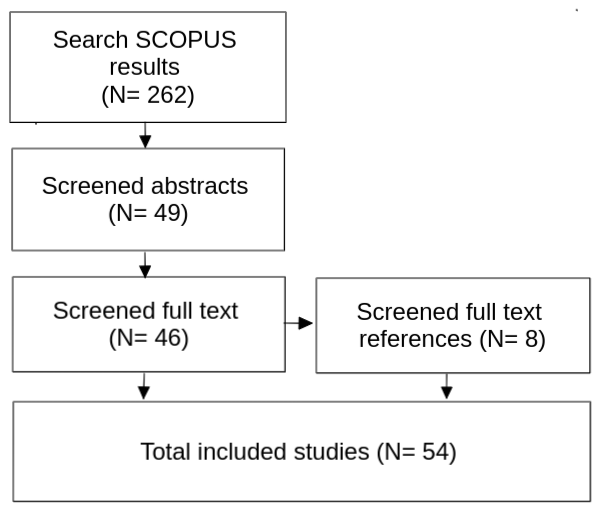
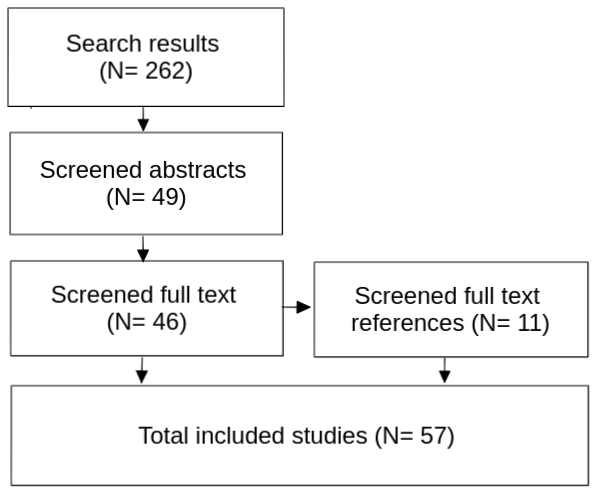
update

Changed region(s): [[0.0, 0.0, 0.9933, 0.998], [0.2408, 0.8468, 0.7826, 0.9073]]

diff --git a/README.md b/README.md
@@ -113,7 +113,7 @@ passing but not as the topic of the paper).
 
 In the second stage, we checked the references from the studies selected
 (i.e. snowball technique), and after screening abstracts and full texts,
-8 additional papers were selected. In total, 54 were reviewed. A flow
+11 additional papers were selected. In total, 57 were reviewed. A flow
 chart of included studies is shown in Figure 1.
 
 <img src="flow-chart.png" alt="Figure 1: flow chart" width="50%" style="display: block; margin: auto;" />
@@ -141,7 +141,7 @@ safety, and public health.
 
 <!-- (i.e. optimal use of lighting to enhance cyclists reassurance while respecting the environment) -->
 
-<Study type>Most of the studies were written in the last decade, 46 were
+<Study type>Most of the studies were written in the last decade, 49 were
 empirical and 8 were reviews (Figure 1).
 
 ![Figure 2: number of papers reviewed by type and
@@ -245,6 +245,12 @@ urban bicycling facilities, Poorfakhraei and Rowangould (2015) found
 that “cycle tracks were valued the most, followed by street lighting,
 and bicycle lanes”.
 
+“Winters et al. (2011) found that a major deterrent to cycling was if
+the route was not well lit after-dark. The deterrent effect was largest
+for people who don’t currently cycle but potentially would do in the
+future, highlighting the importance of lighting in encouraging uptake of
+cycling” (Uttley, Fotios, and Lovelace 2020).
+
 Respondents in a study that examined if neighbourhood environments were
 associated with walking and cycling, reported that good lighting at
 night is an important facilitator of cycling (Lee and Moudon 2008).
@@ -332,6 +338,13 @@ reduction in the odds of severe injury” (Romanow et al. 2012).
 
 “Street lighting is an additional factor that appear to improve cycling
 safety” (Reynolds et al. 2009).
+
+“The most important variables influencing non-motorist injury severity
+are the age of the individual (the elderly are more injury-prone), the
+speed limit on the roadway (higher speed limits lead to higher injury
+severity levels), location of crashes (those at signalized intersections
+are less severe than those elsewhere), and time-of-day” (Eluru, Bhat,
+and Hensher 2008).
 
 “Darkness without streetlights increases the probability of fatal injury
 by 110.9% in accidents compared to accidents occurring in daylight or
@@ -584,6 +597,16 @@ Chen, Peng, Qing Shen, and Suzanne Childress. 2018. “A GPS Data-Based
 Analysis of Built Environment Influences on Bicyclist Route
 Preferences.” *International Journal of Sustainable Transportation* 12
 (3): 218–31. <https://doi.org/10.1080/15568318.2017.1349222>.
+
+</div>
+
+<div id="ref-eluru_mixed_2008" class="csl-entry">
+
+Eluru, Naveen, Chandra R. Bhat, and David A. Hensher. 2008. “A Mixed
+Generalized Ordered Response Model for Examining Pedestrian and
+Bicyclist Injury Severity Level in Traffic Crashes.” *Accident Analysis
+& Prevention* 40 (3): 1033–54.
+<https://doi.org/10.1016/j.aap.2007.11.010>.
 
 </div>
 
@@ -912,6 +935,15 @@ Winters, Meghan, Michael Brauer, Eleanor M. Setton, and Kay Teschke.
 2010. “Built Environment Influences on Healthy Transportation Choices:
 Bicycling Versus Driving.” *Journal of Urban Health* 87 (6): 969–93.
 <https://doi.org/10.1007/s11524-010-9509-6>.
+
+</div>
+
+<div id="ref-winters_motivators_2011" class="csl-entry">
+
+Winters, Meghan, Gavin Davidson, Diana Kao, and Kay Teschke. 2011.
+“Motivators and Deterrents of Bicycling: Comparing Influences on
+Decisions to Ride.” *Transportation* 38 (1): 153–68.
+<https://doi.org/10.1007/s11116-010-9284-y>.
 
 </div>
 
